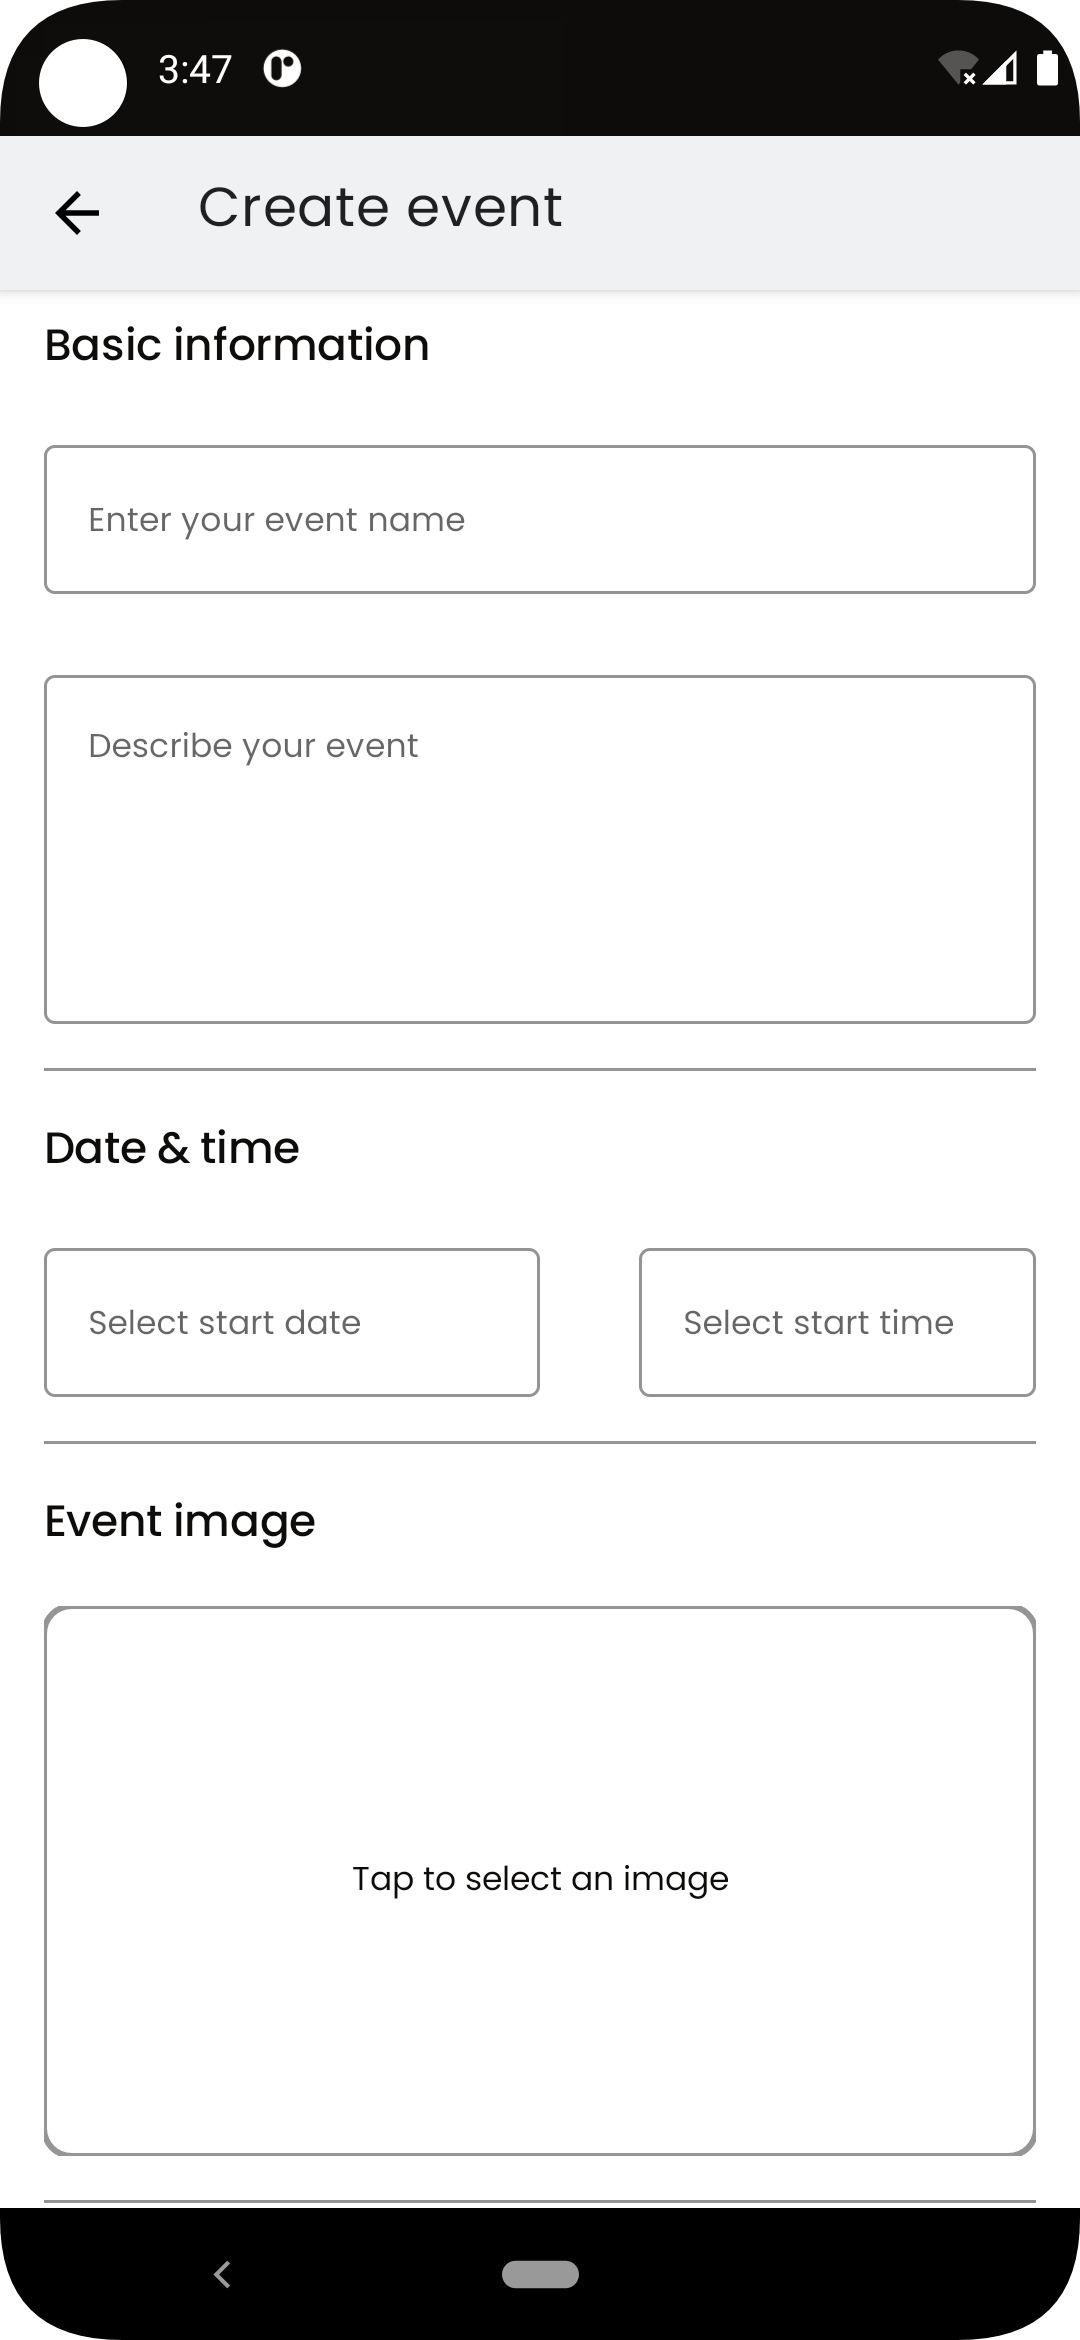
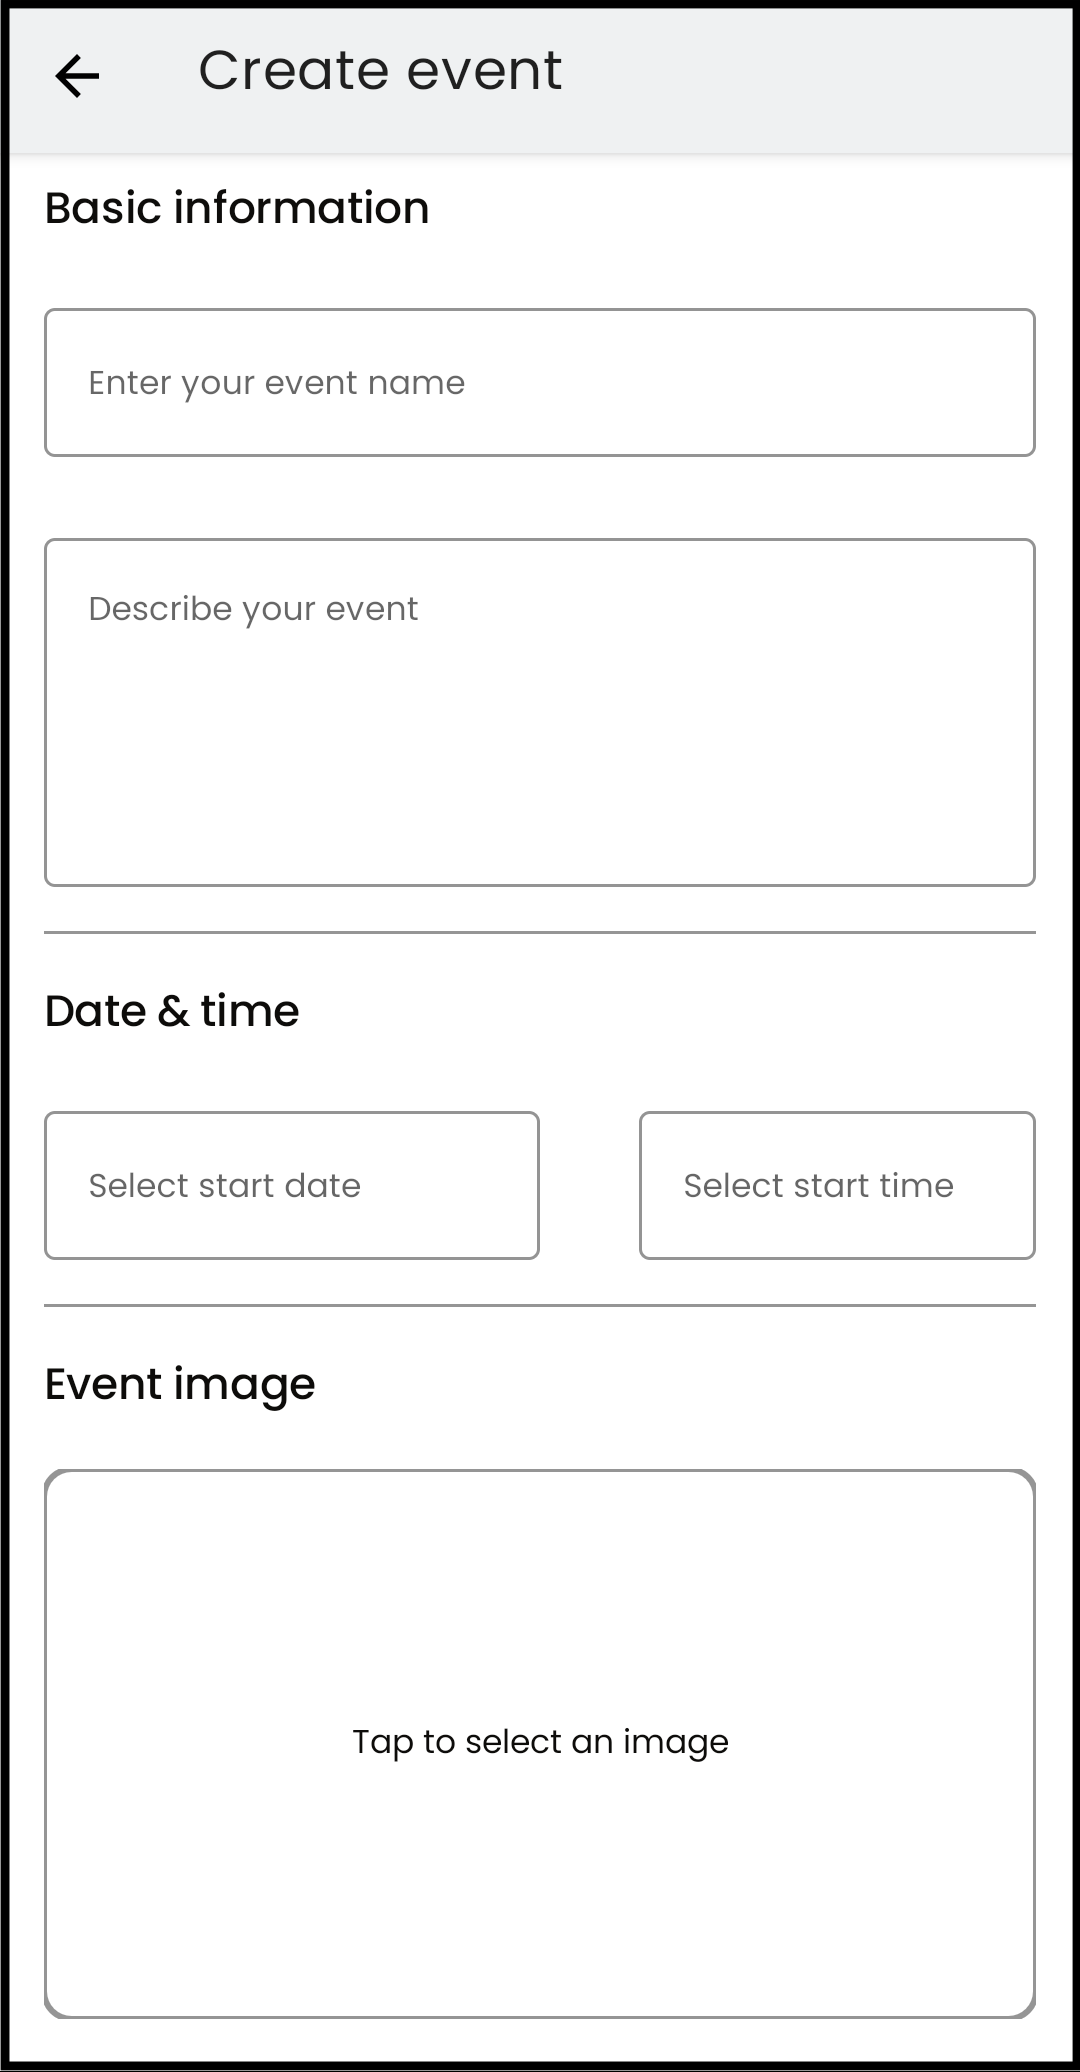
Update README.md

diff --git a/README.md b/README.md
@@ -21,7 +21,7 @@ The architecture of the application relies and compiles with following points:
 
 ## Screenshots 📷
 <img src="/arts/onboarding.png" width="260" color="#DBE1FC"> &emsp;<img src="/arts/register.png" width="260" color="#DBE1FC"> &emsp;<img src="/arts/home.png" width="260" color="#DBE1FC">
-<img src="/arts/home_info.png" width="260" color="#DBE1FC"> &emsp;<img src="/arts/search.png" width="260" color="#DBE1FC"> &emsp;<img src="/arts/ping.png" width="260" color="#DBE1FC">
+<img src="/arts/create_event.png" width="260" color="#DBE1FC"> &emsp;<img src="/arts/search.png" width="260" color="#DBE1FC"> &emsp;<img src="/arts/ping.png" width="260" color="#DBE1FC">
 
 ## Contribution 🙌
 All contributions are welcome! Feel free to jump to the issues and pick one for yourself! Please write a comment inside of the issue before you start working.
